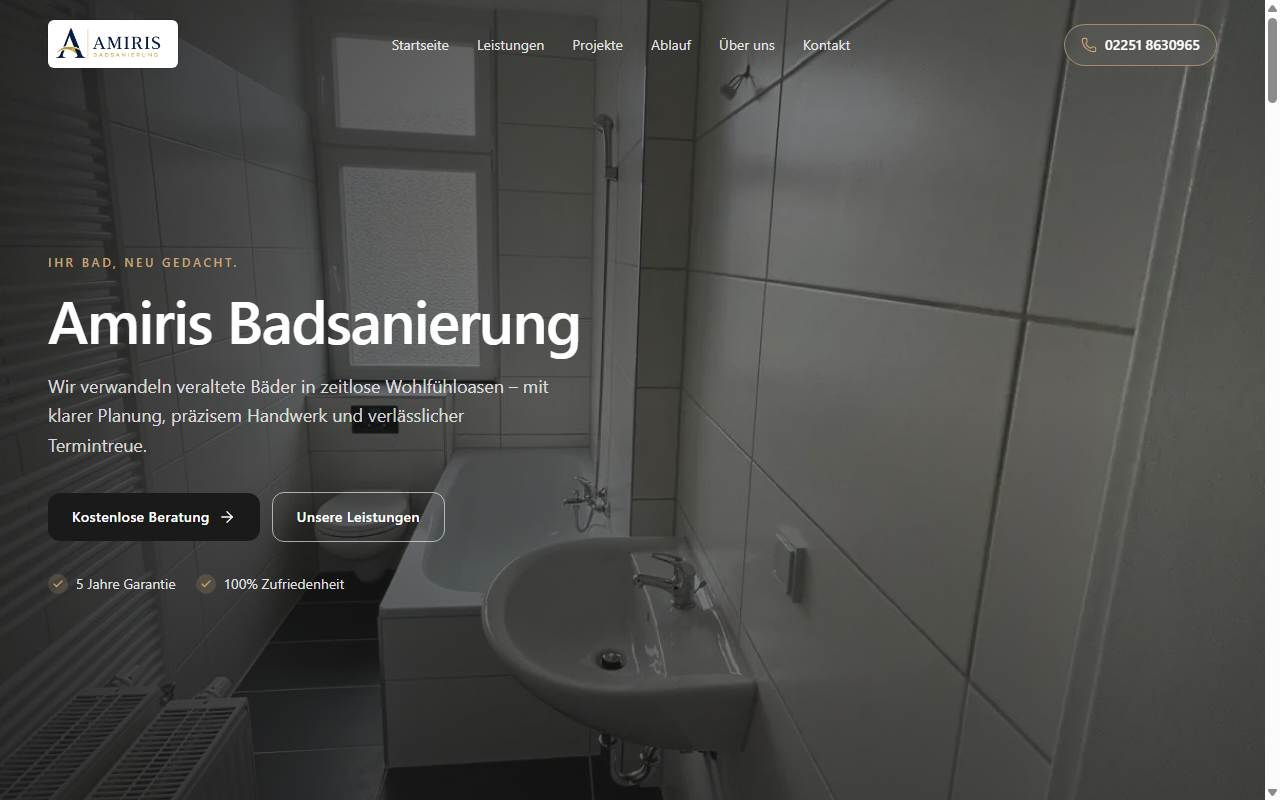
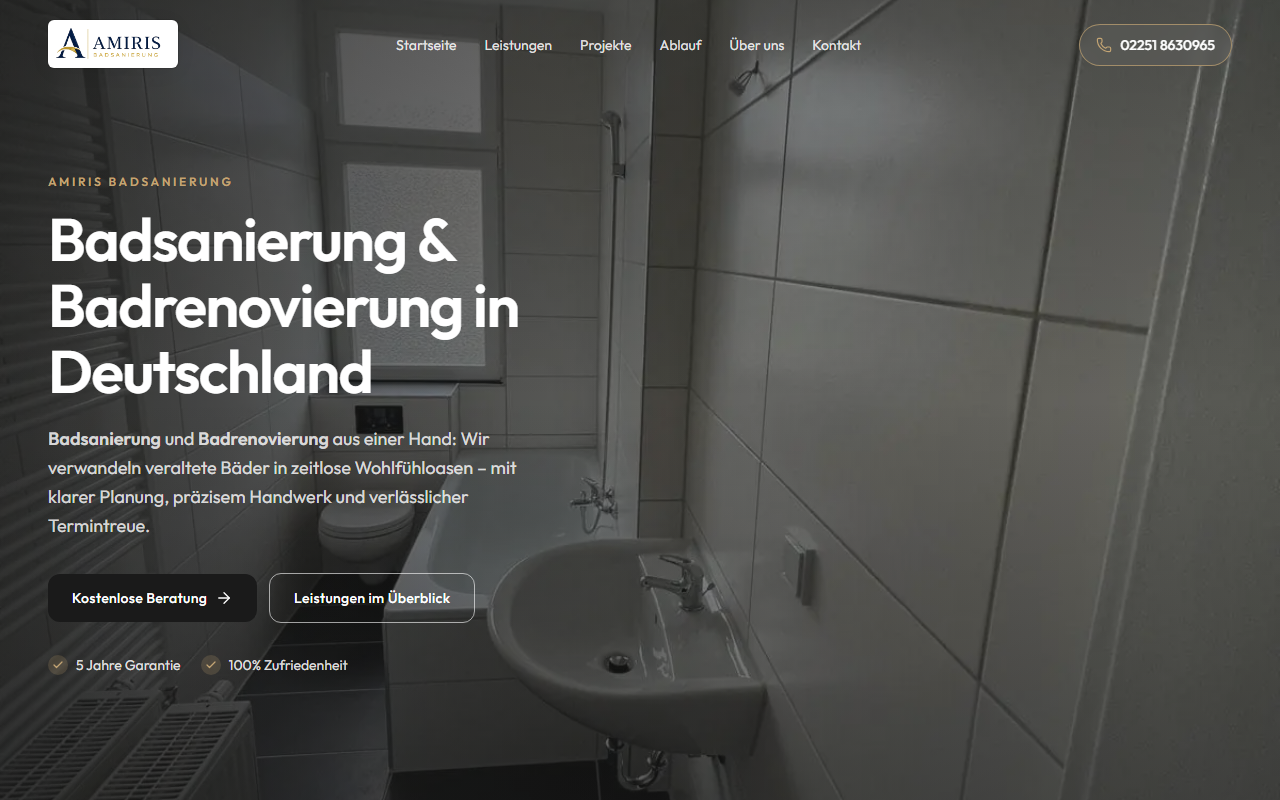
Refresh Amiris Group and Amiris Badsanierung project cards with updated heroes.

diff --git a/src/i18n/translations.ts b/src/i18n/translations.ts
@@ -83,9 +83,9 @@ const fr = {
   'project.carthage-transfer.tagline':
     'Carthage Transfer (Tunisie) — site web, SEO et automatisation pour un service de transferts VIP et navettes aéroport.',
   'project.amiris-group.tagline':
-    'Amiris Group (Allemagne) — site vitrine premium pour une société immobilière : biens, courtage, investissement et conseil.',
+    'Amiris Group (Allemagne) — site vitrine pour la gestion immobilière : administration de biens, courtage et conseil.',
   'project.amiris-badsanierung.tagline':
-    'Amiris Badsanierung (Allemagne) — site web premium pour la rénovation de salles de bains : planification, artisanat et conversion.',
+    'Amiris Badsanierung (Allemagne) — site pour la rénovation de salles de bains en Allemagne : planification, artisanat et conversion.',
   'project.fensterio.tagline':
     'Fensterio (Allemagne) — site web et marketing digital pour un spécialiste fenêtres, portes, volets et protection solaire.',
   'project.djerba-airport-transfers.tagline':
@@ -296,9 +296,9 @@ const en: Record<TranslationKey, string> = {
   'project.carthage-transfer.tagline':
     'Carthage Transfer (Tunisia) — website, SEO, and automation for a VIP transfer and airport shuttle service.',
   'project.amiris-group.tagline':
-    'Amiris Group (Germany) — premium showcase site for a real-estate company: property, brokerage, investment, and consulting.',
+    'Amiris Group (Germany) — showcase site for property management: administration, brokerage, and consulting.',
   'project.amiris-badsanierung.tagline':
-    'Amiris Badsanierung (Germany) — premium website for bathroom renovation: planning, craftsmanship, and conversion.',
+    'Amiris Badsanierung (Germany) — website for bathroom renovation across Germany: planning, craftsmanship, and conversion.',
   'project.fensterio.tagline':
     'Fensterio (Germany) — website and digital marketing for a windows, doors, shutters, and sun-protection specialist.',
   'project.djerba-airport-transfers.tagline':
@@ -507,9 +507,9 @@ const ar: Record<TranslationKey, string> = {
   'project.carthage-transfer.tagline':
     'Carthage Transfer (تونس) — موقع ويب وSEO وأتمتة لخدمة نقل VIP وحافلات المطار.',
   'project.amiris-group.tagline':
-    'Amiris Group (ألمانيا) — موقع عرض فاخر لشركة عقارية: إدارة أملاك ووساطة واستثمار واستشارة.',
+    'Amiris Group (ألمانيا) — موقع لإدارة العقارات: تسيير الأملاك والوساطة والاستشارة.',
   'project.amiris-badsanierung.tagline':
-    'Amiris Badsanierung (ألمانيا) — موقع ويب فاخر لتجديد الحمامات: تخطيط وحرفية وتحويل.',
+    'Amiris Badsanierung (ألمانيا) — موقع لتجديد الحمامات في ألمانيا: تخطيط وحرفية وتحويل.',
   'project.fensterio.tagline':
     'Fensterio (ألمانيا) — موقع ويب وتسويق رقمي لمتخصص نوافذ وأبواب ومصاريع وحماية شمسية.',
   'project.djerba-airport-transfers.tagline':
@@ -717,9 +717,9 @@ const de: Record<TranslationKey, string> = {
   'project.carthage-transfer.tagline':
     'Carthage Transfer (Tunesien) — Website, SEO und Automatisierung für VIP-Transfers und Flughafen-Shuttles.',
   'project.amiris-group.tagline':
-    'Amiris Group (Deutschland) — Premium-Website für eine Immobilienfirma: Verwaltung, Makler, Investment und Beratung.',
+    'Amiris Group (Deutschland) — Website für Immobilienverwaltung: Verwaltung, Vermittlung und Beratung.',
   'project.amiris-badsanierung.tagline':
-    'Amiris Badsanierung (Deutschland) — Premium-Website für Badrenovierung: Planung, Handwerk und Conversion.',
+    'Amiris Badsanierung (Deutschland) — Website für Badsanierung und Badrenovierung in Deutschland: Planung, Handwerk und Conversion.',
   'project.fensterio.tagline':
     'Fensterio (Deutschland) — Website und digitales Marketing für einen Spezialisten für Fenster, Türen, Rollläden und Sonnenschutz.',
   'project.djerba-airport-transfers.tagline':

diff --git a/src/content/site.ts b/src/content/site.ts
@@ -391,7 +391,7 @@ export const projects: Project[] = [
     slug: 'amiris-group',
     name: 'Amiris Group',
     tagline:
-      'Amiris Group (Allemagne) — site vitrine premium pour une société immobilière : biens, courtage, investissement et conseil.',
+      'Amiris Group (Allemagne) — site vitrine pour la gestion immobilière : administration de biens, courtage et conseil.',
     description:
       'Amiris Group est une société immobilière allemande (administration de biens, courtage, investissement et conseil). Conception et développement de son site vitrine premium : identité soignée, navigation claire et présentation des services pour renforcer crédibilité et conversion. Live : amirisgroup.com.',
     role: 'Développement web & design digital',
@@ -411,7 +411,7 @@ export const projects: Project[] = [
       'Site live : amirisgroup.com',
     ],
     liveUrl: 'https://amirisgroup.com/',
-    image: '/images/projects/amiris-group.png',
+    image: '/images/projects/amiris-group.png?v=2',
     featured: true,
   },
   {
@@ -419,7 +419,7 @@ export const projects: Project[] = [
     slug: 'amiris-badsanierung',
     name: 'Amiris Badsanierung',
     tagline:
-      'Amiris Badsanierung (Allemagne) — site web premium pour la rénovation de salles de bains : planification, artisanat et conversion.',
+      'Amiris Badsanierung (Allemagne) — site pour la rénovation de salles de bains en Allemagne : planification, artisanat et conversion.',
     description:
       'Amiris Badsanierung est une entreprise allemande spécialisée dans la rénovation premium de salles de bains (sanitaires, douches walk-in, carrelage, accessibilité). Conception et développement du site vitrine : présentation des prestations, projets avant/après, parcours client en 5 étapes, avis et formulaire de conseil gratuit. Live : amiris-badsanierung.de.',
     role: 'Développement web, SEO & conversion',
@@ -439,7 +439,7 @@ export const projects: Project[] = [
       'Site live : amiris-badsanierung.de',
     ],
     liveUrl: 'https://amiris-badsanierung.de/',
-    image: '/images/projects/amiris-badsanierung.png',
+    image: '/images/projects/amiris-badsanierung.png?v=2',
     featured: true,
   },
   {
